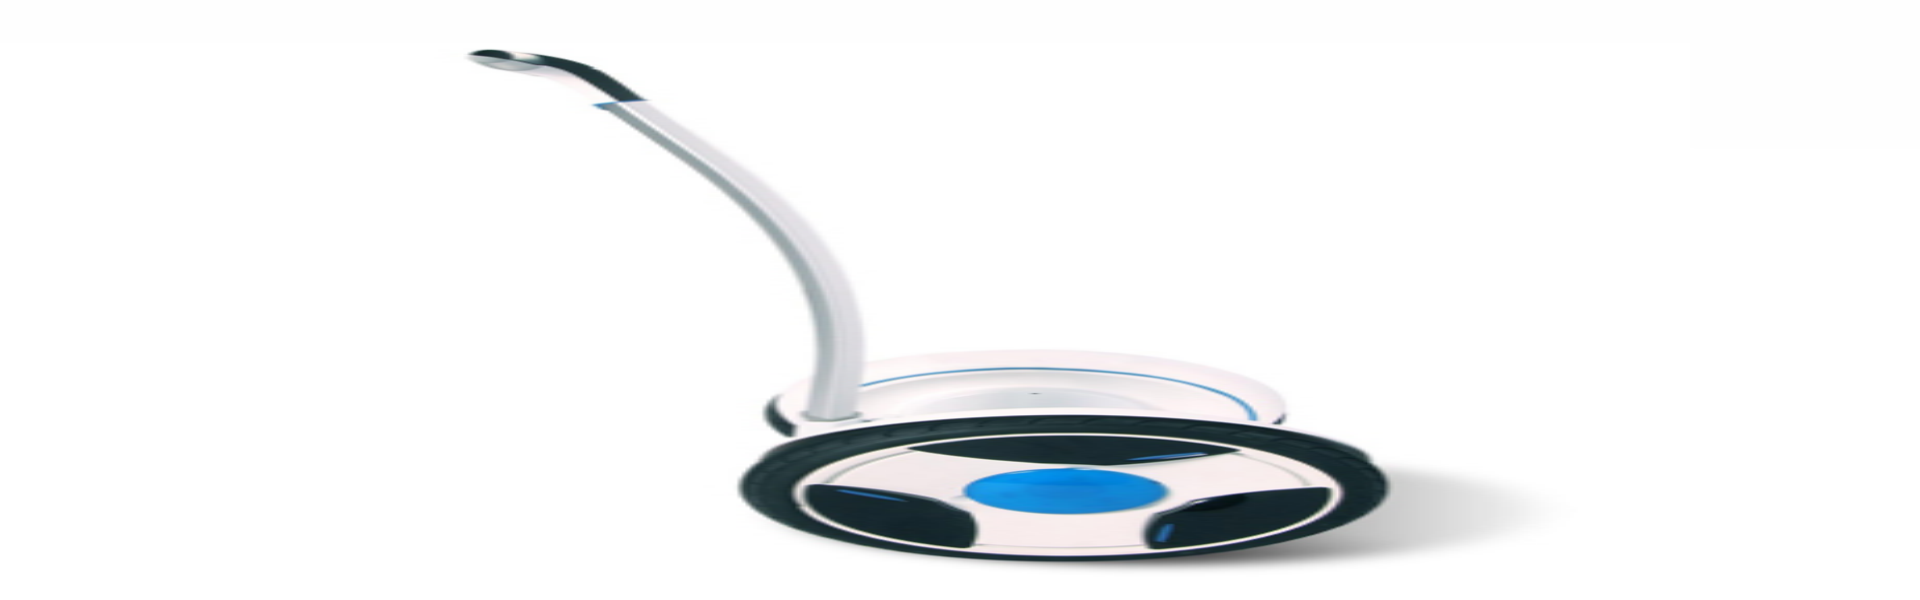
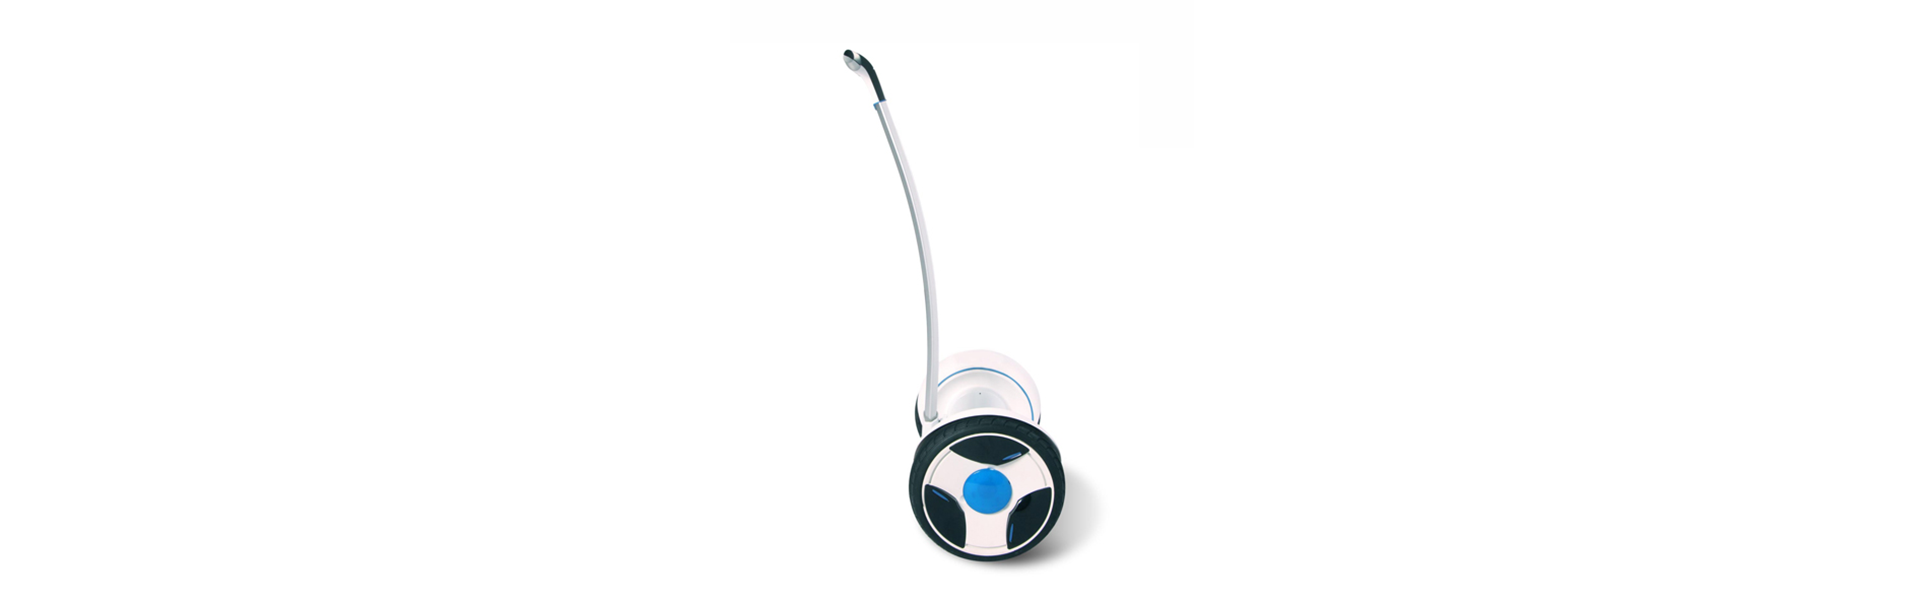
Ninebot E images changed

Changed region(s): [[0.25, 0.06, 0.7812, 0.96], [0.4375, 0.09, 0.4688, 0.27]]

diff --git a/Common/css/productCatalogue.css b/Common/css/productCatalogue.css
@@ -2,11 +2,11 @@
 }
 .ImageSlider{
     float:left;
-    width:45%;
+    width:55%;
 }
 .textContent{
     float:left;
-    width:50%;
+    width:40%;
     margin-left:2%;
 }
 

diff --git a/9bot/UI/Ninebot&more/NinebotE.php b/9bot/UI/Ninebot&more/NinebotE.php
@@ -22,6 +22,8 @@
                     name: 'Straordinario veicolo',
                     description: 'Ninebot è un nuovo e straordinario veicolo. Si guida e controlla con l\'equilibrio del corpo, basta inclinarsi in avanti e indietro. Il Ninebot rileva la posizione del vostro corpo e rimane in equilibrio grazie al sistema di autobilanciamento.<br />Con il collegamento Bluetooth si può gestire Ninebot in remoto e fare la diagnosi intelligente di eventuali problemi. Il Ninebot-E, compresa la barra funzionamento, pesa solo 23.5Kg e può essere dotato di una batteria ad alta capacità 670Wh, che estende la sua autonomia sino a 30-45 Km.',
                     imagesUrl: [
+                        '../../images/prodottiImages/1.png',
+                        '../../images/prodottiImages/3.png',
                         '../../images/prodottiImages/ninebotEAmazingTransportation.png',
                         '../../images/prodottiImages/nineBotEAmazing.png'
                     ]
@@ -30,6 +32,7 @@
                     name: 'Ninebot in autovettura',
                     description: 'NIl manubrio del Ninebot può essere facilmente rimosso e grazie al peso, di 20Kg senza l’ingombro della barra, il Ninebot può essere facilmente messo nel bagagliaio della maggior parte delle auto e portato ovunque.',
                     imagesUrl: [
+                        '../../images/prodottiImages/smallHandleRemovable.png',
                         '../../images/prodottiImages/nineBotECompanion.png'
                     ]
                 },
@@ -37,21 +40,25 @@
                     name: 'Con Ninebot niente più ingorghi e lunghe ricerche di parcheggio',
                     description: 'Il Ninebot è la scelta migliore per brevi distanze. Con una velocità massima di 20 km/h e con una grande resistenza agli urti. I pneumatici Michelin da 16 pollici permettono di passare senza problemi sulla maggior parte dei dossi e bunker. Inoltre, il costo elettrico per 1 Km è solo di 1 centesimo. Il vantaggio più importante è che con il vostro Ninebot raggiungerete la vostra destinazione mentre i vostri amici automobilisti passeranno il loro tempo in un ingorgo o alla ricerca di un parcheggio.',
                     imagesUrl: [
-                        '../../images/prodottiImages/nineBotENoTraffic.png'
+                        '../../images/prodottiImages/8.png',
+                        '../../images/prodottiImages/5.png'
                     ]
                 },
                 {
                     name: 'Eleganza e qualità',
                     description: 'Il telecomando del Ninebot è di colore bianco porcellana con rifiniture argento. Elegante e raffinato nel proprio contenitore. I suoi quattro pulsanti vi permettono di gestire tutte le funzioni. Ogni Ninebot è equipaggiato con 2 chiavi, una di riserva.',
                     imagesUrl: [
-                        '../../images/prodottiImages/nineBotEEleganceAndQuality.png'
+                        '../../images/prodottiImages/nineBotEEleganceAndQuality.png',
+                        '../../images/prodottiImages/4.png'
                     ]
                 },
                 {
                     name: 'Imballaggio rinforzato',
                     description: 'L’Imballaggio di Ninebot ha superato le prove più dure. E’ stato studiato per resistere a cadute dall\'altezza di 1,5 m, con diverse angolazioni Dimensioni dell\'imballaggio: L620 × W440 × H470 Dimensioni dell’imballaggio del manubrio: L1140 × W140 × H95',
                     imagesUrl: [
-                        '../../images/prodottiImages/nineBotEReinforce.png'
+                        '../../images/prodottiImages/10.png',
+                        '../../images/prodottiImages/9.png',
+                        '../../images/prodottiImages/2.png'
                     ]
                 },
             ];
